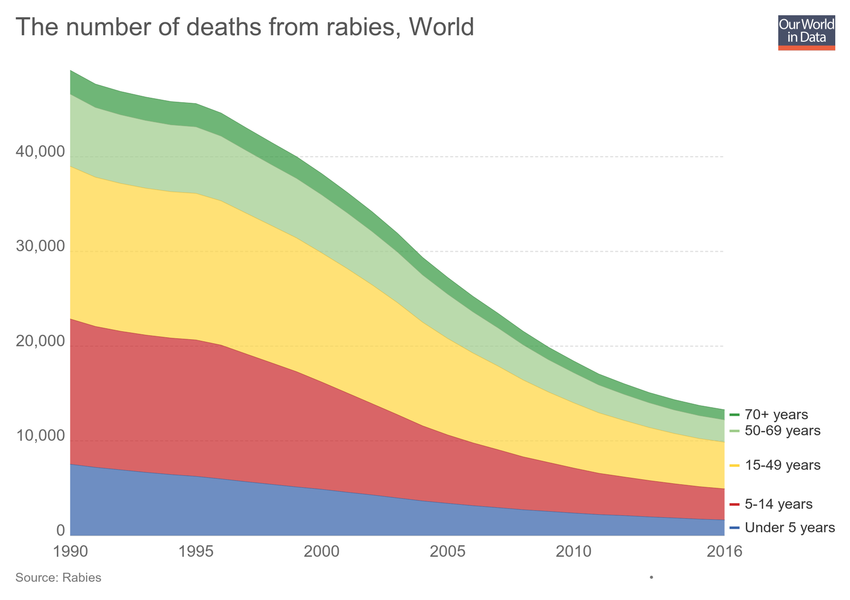
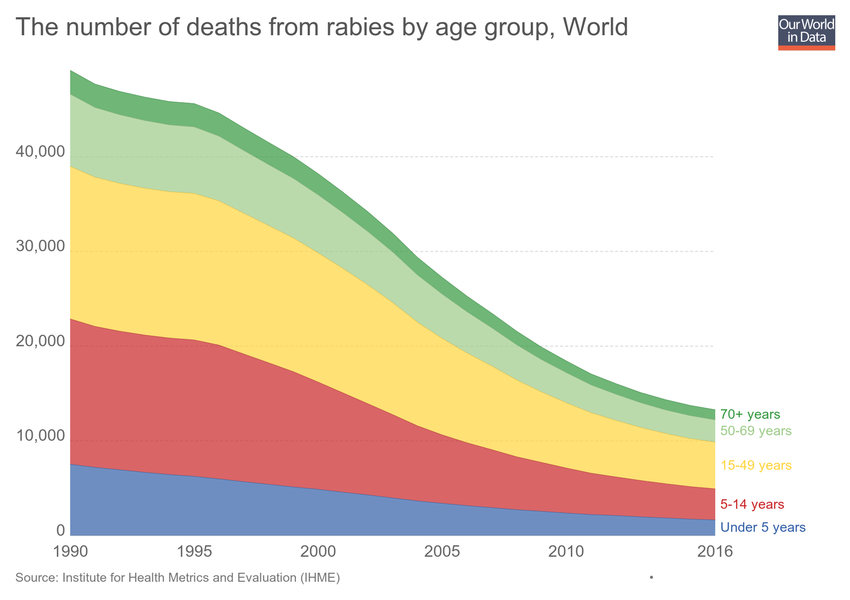
Updating chart the-number-of-deaths-from-rabies

diff --git a/grapher/the-number-of-deaths-from-rabies.html b/grapher/the-number-of-deaths-from-rabies.html
@@ -1,4 +1,4 @@
-<!doctype html><html><head><meta name="viewport" content="width=device-width, initial-scale=1" /><title>The number of deaths from rabies - Our World in Data</title><meta name="description" content="An interactive visualization from Our World in Data." /><link rel="canonical" href="https://ourworldindata.org/grapher/the-number-of-deaths-from-rabies" /><meta property="fb:app_id" content="1149943818390250" /><meta property="og:url" content="https://ourworldindata.org/grapher/the-number-of-deaths-from-rabies" /><meta property="og:title" content="The number of deaths from rabies" /><meta property="og:description" content="An interactive visualization from Our World in Data." /><meta property="og:image" content="https://ourworldindata.org/grapher/exports/the-number-of-deaths-from-rabies.png?v=2" /><meta property="og:image:width" content="850" /><meta property="og:image:height" content="600" /><meta property="og:site_name" content="Our World in Data" /><meta name="twitter:card" content="summary_large_image" /><meta name="twitter:site" content="@OurWorldInData" /><meta name="twitter:creator" content="@OurWorldInData" /><meta name="twitter:title" content="The number of deaths from rabies" /><meta name="twitter:description" content="An interactive visualization from Our World in Data." /><meta name="twitter:image" content="https://ourworldindata.org/grapher/exports/the-number-of-deaths-from-rabies.png?v=2" /><style>
+<!doctype html><html><head><meta name="viewport" content="width=device-width, initial-scale=1" /><title>The number of deaths from rabies by age group - Our World in Data</title><meta name="description" content="An interactive visualization from Our World in Data." /><link rel="canonical" href="https://ourworldindata.org/grapher/the-number-of-deaths-from-rabies" /><meta property="fb:app_id" content="1149943818390250" /><meta property="og:url" content="https://ourworldindata.org/grapher/the-number-of-deaths-from-rabies" /><meta property="og:title" content="The number of deaths from rabies by age group" /><meta property="og:description" content="An interactive visualization from Our World in Data." /><meta property="og:image" content="https://ourworldindata.org/grapher/exports/the-number-of-deaths-from-rabies.png?v=4" /><meta property="og:image:width" content="850" /><meta property="og:image:height" content="600" /><meta property="og:site_name" content="Our World in Data" /><meta name="twitter:card" content="summary_large_image" /><meta name="twitter:site" content="@OurWorldInData" /><meta name="twitter:creator" content="@OurWorldInData" /><meta name="twitter:title" content="The number of deaths from rabies by age group" /><meta name="twitter:description" content="An interactive visualization from Our World in Data." /><meta name="twitter:image" content="https://ourworldindata.org/grapher/exports/the-number-of-deaths-from-rabies.png?v=4" /><style>
         html, body {
             height: 100%;
             margin: 0;
@@ -20,8 +20,8 @@
         }
     </style><noscript><style>
                     figure { display: none !important; }
-                </style></noscript><link rel="stylesheet" href="https://ourworldindata.org/grapher/assets/commons.bundle.ac09ff8f098f0c7be836.css" /><link rel="preload" href="/grapher/data/variables/58900+58904+58906+58908+58910.json?v=2" as="fetch" crossorigin /></head><body class="singleChart"><figure data-grapher-src="/grapher/the-number-of-deaths-from-rabies"></figure><noscript id="fallback"><img src="/grapher/exports/the-number-of-deaths-from-rabies.svg" /><p>Interactive visualization requires JavaScript</p></noscript><script src="https://cdn.polyfill.io/v2/polyfill.min.js?features=es6,fetch"></script><script src="https://ourworldindata.org/grapher/assets/commons.bundle.ac09ff8f098f0c7be836.js"></script><script src="https://ourworldindata.org/grapher/assets/charts.bundle.dcf65b68eddaba4c6a58.js"></script><script>
-        var jsonConfig = {"id":2548,"map":{"projection":"World","targetYear":2016,"variableId":58900,"colorSchemeLabels":[],"colorSchemeValues":[],"colorSchemeMinValue":0,"customNumericColors":[],"customCategoryColors":{},"customCategoryLabels":{},"customHiddenCategories":{}},"tab":"chart","slug":"the-number-of-deaths-from-rabies","type":"StackedArea","title":"The number of deaths from rabies","xAxis":{"scaleType":"linear"},"yAxis":{"min":0,"scaleType":"linear"},"version":2,"hasMapTab":true,"stackMode":"absolute","dimensions":[{"display":{"name":"Under 5 years","numDecimalPlaces":0},"property":"y","variableId":58900},{"display":{"name":"5-14 years","numDecimalPlaces":0},"property":"y","variableId":58904},{"display":{"name":"15-49 years","numDecimalPlaces":0},"property":"y","variableId":58906},{"display":{"name":"50-69 years","numDecimalPlaces":0},"property":"y","variableId":58908},{"display":{"name":"70+ years","numDecimalPlaces":0},"property":"y","variableId":58910}],"hasChartTab":true,"isPublished":true,"selectedData":[{"index":4,"entityId":355},{"index":3,"entityId":355},{"index":2,"entityId":355},{"index":1,"entityId":355},{"index":0,"entityId":355}],"addCountryMode":"change-country"};
+                </style></noscript><link rel="stylesheet" href="https://ourworldindata.org/grapher/assets/commons.bundle.ac09ff8f098f0c7be836.css" /><link rel="preload" href="/grapher/data/variables/58900+58904+58906+58908+58910.json?v=4" as="fetch" crossorigin /></head><body class="singleChart"><figure data-grapher-src="/grapher/the-number-of-deaths-from-rabies"></figure><noscript id="fallback"><img src="/grapher/exports/the-number-of-deaths-from-rabies.svg" /><p>Interactive visualization requires JavaScript</p></noscript><script src="https://cdn.polyfill.io/v2/polyfill.min.js?features=es6,fetch"></script><script src="https://ourworldindata.org/grapher/assets/commons.bundle.ac09ff8f098f0c7be836.js"></script><script src="https://ourworldindata.org/grapher/assets/charts.bundle.dcf65b68eddaba4c6a58.js"></script><script>
+        var jsonConfig = {"id":2548,"map":{"projection":"World","targetYear":2016,"variableId":58900,"colorSchemeLabels":[],"colorSchemeValues":[],"colorSchemeMinValue":0,"customNumericColors":[],"customCategoryColors":{},"customCategoryLabels":{},"customHiddenCategories":{}},"tab":"chart","slug":"the-number-of-deaths-from-rabies","type":"StackedArea","title":"The number of deaths from rabies by age group","xAxis":{"scaleType":"linear"},"yAxis":{"min":0,"scaleType":"linear"},"version":4,"hasMapTab":true,"stackMode":"absolute","dimensions":[{"display":{"name":"Under 5 years","numDecimalPlaces":0},"property":"y","variableId":58900},{"display":{"name":"5-14 years","numDecimalPlaces":0},"property":"y","variableId":58904},{"display":{"name":"15-49 years","numDecimalPlaces":0},"property":"y","variableId":58906},{"display":{"name":"50-69 years","numDecimalPlaces":0},"property":"y","variableId":58908},{"display":{"name":"70+ years","numDecimalPlaces":0},"property":"y","variableId":58910}],"sourceDesc":"Institute for Health Metrics and Evaluation (IHME)","hasChartTab":true,"isPublished":true,"selectedData":[{"index":4,"entityId":355},{"index":3,"entityId":355},{"index":2,"entityId":355},{"index":1,"entityId":355},{"index":0,"entityId":355}],"addCountryMode":"change-country"};
         var figure = document.getElementsByTagName("figure")[0];
         try {
             window.App = {};
